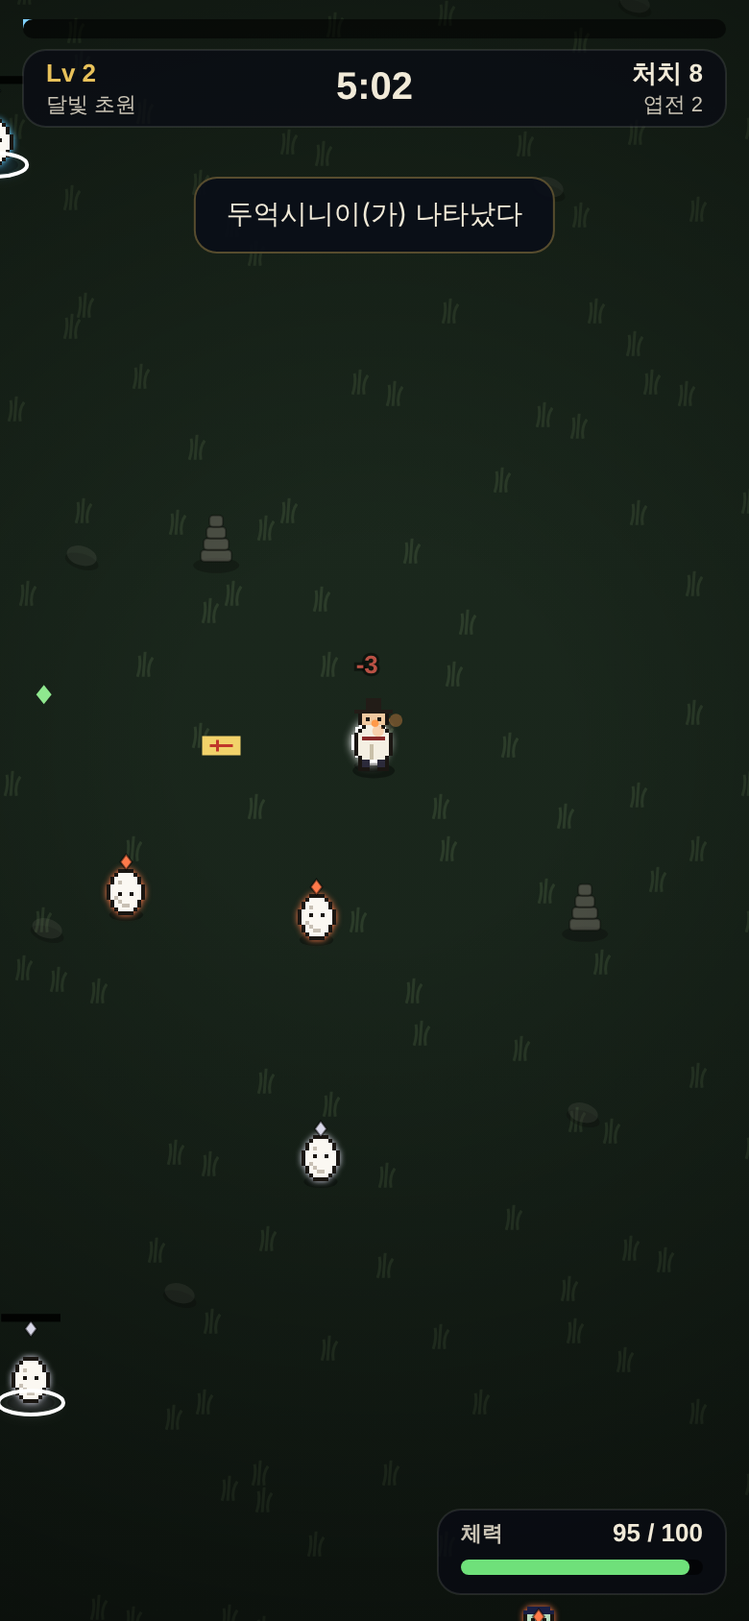
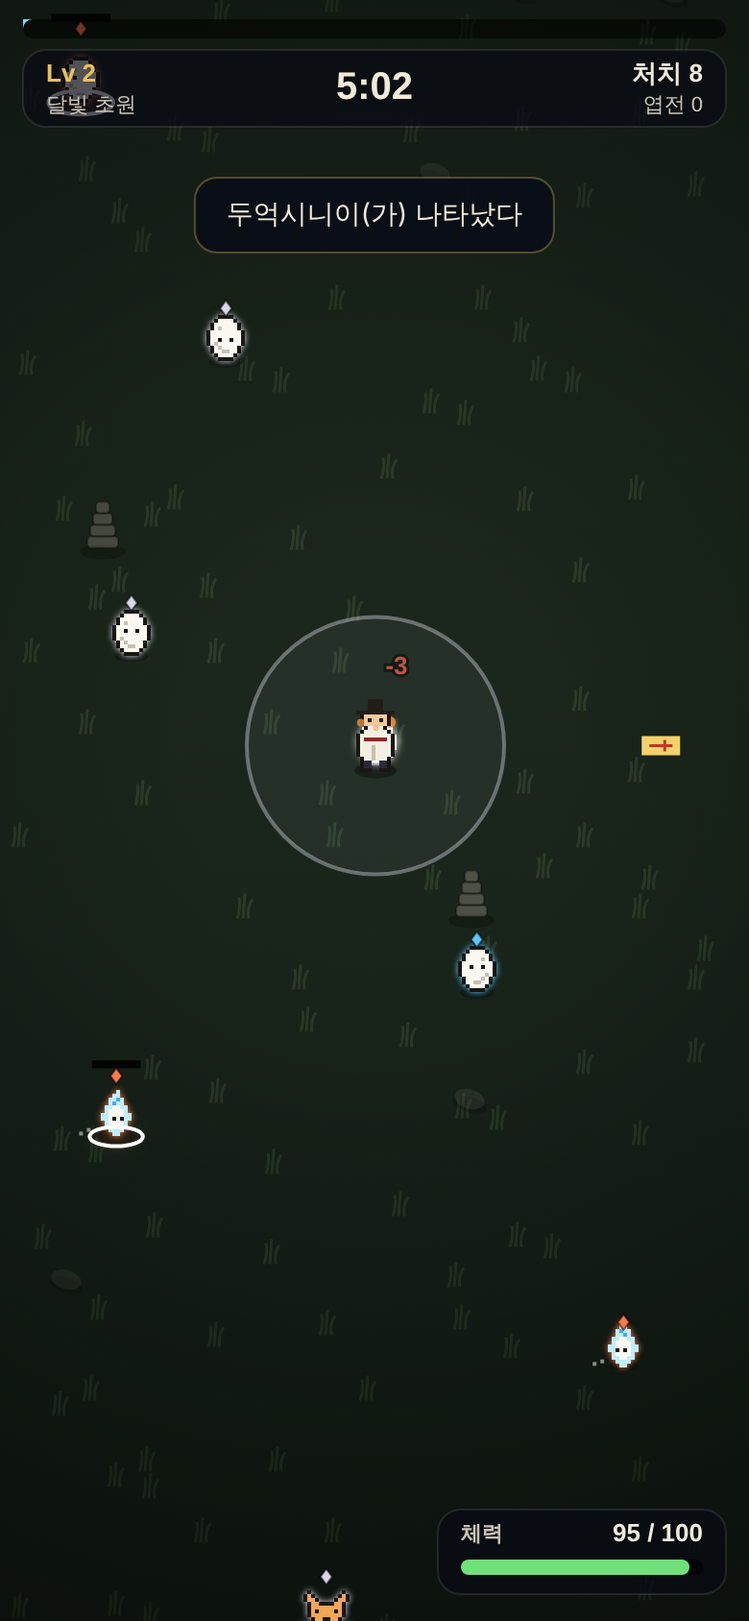
밤의 퇴마사 M3②: 무기 진화 — 격자 문법 2단 30·3단 7, 런 내 Lv5×2 → 진화 카드, 도감 49칸
- EVOS 생성(같은 속성/같은 타입 쌍, 삼위일체/사원소), 부모 소모·재등장 금지, 피해 ×1.5/×2.2
- firePart(w, owner): 진화 무기는 부품 공격 전부 발사, 상성은 유리한 쪽만
- 합성 아이콘(부품 + 단 테두리), 레벨업 첫 카드 진화, 상자에도 진화 무기 강화
- m3b-test 10/10

Claude-Session: https://claude.ai/code/session_01RmJvEQYZMU41pMZMsu4AKq

diff --git a/games/night-exorcist/index.html b/games/night-exorcist/index.html
@@ -136,7 +136,7 @@ const EL_COL = { fire:'#ff7a4a', water:'#5fc8ff', wood:'#7fe06a', metal:'#d8d8e8
 const power = r => 1 + C.META_G * (1 - Math.pow(C.META_D, r));
 
 // ───────── 메타 세이브 ─────────
-const META0 = { v:2, runs:0, coins:0, shards:0, train:{ atk:0, hp:0, regen:0, spd:0, pick:0 }, owned:{ talisman:0 }, deck:['talisman'], stage:1, bestStage:0, codex:[], best:{ time:0, kills:0 }, chalBest:0, lastSeen:0 };
+const META0 = { v:2, runs:0, coins:0, shards:0, train:{ atk:0, hp:0, regen:0, spd:0, pick:0 }, owned:{ talisman:0 }, deck:['talisman'], stage:1, bestStage:0, codex:[], evo:[], best:{ time:0, kills:0 }, chalBest:0, lastSeen:0 };
 function migrate(m) { if (!m) return JSON.parse(JSON.stringify(META0)); const base = JSON.parse(JSON.stringify(META0)); if (m.v === 1) { const w = m.weapons || []; m.owned = {}; if (w[0]) m.owned.talisman = 0; if (w[1]) m.owned.sword = 0; if (w[2]) m.owned.bell = 0; m.deck = Object.keys(m.owned); delete m.weapons; delete m.chars; m.v = 2; } const out = { ...base, ...m }; out.train = { ...base.train, ...(m.train || {}) }; if (!out.owned.talisman && out.owned.talisman !== 0) out.owned.talisman = 0; if (!out.deck.length) out.deck = ['talisman']; return out; }
 let META = migrate(JSON.parse(store.get(SAVE_KEY) || 'null'));
 function saveMeta() { META.lastSeen = Date.now(); store.set(SAVE_KEY, JSON.stringify(META)); cloudSave(); }
@@ -232,7 +232,41 @@ const WEAPONS = [
   { id:'bell',     el:'metal', type:'aura',  name:'방울',     desc:'주변 요괴를 계속 흔들어 느리게 한다',         cd:.5, dmg:4, range:70, slow:.2, max:5, up:'피해 +25% · 반경 +12%' },
 ];
 const WBY = Object.fromEntries(WEAPONS.map(w => [w.id, w]));
-const affinity = (w, o) => { const el = o.el || (o.d && o.d.el) || 'none', armor = o.armor || (o.d && o.d.armor) || 'none'; return (el === 'none' || w.el === el ? 1 : BEATS[w.el] === el ? 1.5 : BEATS[el] === w.el ? .6 : 1) * (TYPE_VS[w.type][armor] || 1); };
+const elMul = (we, el) => el === 'none' || we === el ? 1 : BEATS[we] === el ? 1.5 : BEATS[el] === we ? .6 : 1;
+const affinity = (w, o) => { const el = o.el || (o.d && o.d.el) || 'none', armor = o.armor || (o.d && o.d.armor) || 'none';
+  if (w.els) return Math.max(1, ...w.els.map(we => elMul(we, el))) * Math.max(1, ...w.types.map(t => TYPE_VS[t][armor] || 1));   // 진화: 불리 없음
+  return elMul(w.el, el) * (TYPE_VS[w.type][armor] || 1); };
+// ── 진화: 2단 = 같은 속성·다른 타입 쌍(12) + 같은 타입·다른 속성 쌍(18) · 3단 = 속성 삼위일체(4) + 타입 사원소(3). 런 안에서 부모 Lv5 → 자식 Lv1, 부모 소모
+// 효과: 부모 공격 전부 발사, 피해 2단 ×1.5 / 3단 ×2.2, 상성은 부모 속성·타입 중 유리한 쪽(불리 없음)
+const EVO_NAME = {
+  'fire:throw+melee':'화염 부채', 'fire:throw+aura':'불꽃 비', 'fire:melee+aura':'업화 고리',
+  'water:throw+melee':'해일 채찍', 'water:throw+aura':'빗물 구슬', 'water:melee+aura':'안개 소용돌이',
+  'wood:throw+melee':'대나무 숲검', 'wood:throw+aura':'염주 창', 'wood:melee+aura':'목어 검무',
+  'metal:throw+melee':'엽전 낫', 'metal:throw+aura':'방울 표창', 'metal:melee+aura':'풍경 낫',
+  'throw:fire+water':'김 서린 부적', 'throw:fire+wood':'불타는 죽창', 'throw:fire+metal':'불 엽전', 'throw:water+wood':'이슬 죽창', 'throw:water+metal':'물결 표창', 'throw:wood+metal':'엽전 죽창',
+  'melee:fire+water':'증기 채찍', 'melee:fire+wood':'화목검', 'melee:fire+metal':'달군 낫', 'melee:water+wood':'물먹은 목검', 'melee:water+metal':'물결 낫', 'melee:wood+metal':'목낫',
+  'aura:fire+water':'온천 안개', 'aura:fire+wood':'향로 염주', 'aura:fire+metal':'화로 방울', 'aura:water+wood':'안개 염주', 'aura:water+metal':'물방울 종', 'aura:wood+metal':'염주 방울',
+  'fire:all':'삼매진화', 'water:all':'용궁 해일', 'wood:all':'천년 신목', 'metal:all':'만금 종', 'throw:all':'사원소 표창', 'melee:all':'사원소 검', 'aura:all':'사원소 결계' };
+const ELS = ['fire', 'water', 'wood', 'metal'], TYPES = ['throw', 'melee', 'aura'];
+const baseOf = (el, type) => WEAPONS.find(w => w.el === el && w.type === type);
+const EVOS = []; // { id, name, tier, parents:[ids], parts:[base ids], els, types, max:5 }
+for (const el of ELS) for (let i = 0; i < 3; i++) for (let j = i + 1; j < 3; j++) { const a = baseOf(el, TYPES[i]), b = baseOf(el, TYPES[j]); EVOS.push({ id:`e:${el}:${TYPES[i]}+${TYPES[j]}`, name:EVO_NAME[`${el}:${TYPES[i]}+${TYPES[j]}`], tier:2, parents:[a.id, b.id], parts:[a.id, b.id], els:[el], types:[TYPES[i], TYPES[j]], max:5, up:'피해 +25%' }); }
+for (const type of TYPES) for (let i = 0; i < 4; i++) for (let j = i + 1; j < 4; j++) { const a = baseOf(ELS[i], type), b = baseOf(ELS[j], type); EVOS.push({ id:`e:${type}:${ELS[i]}+${ELS[j]}`, name:EVO_NAME[`${type}:${ELS[i]}+${ELS[j]}`], tier:2, parents:[a.id, b.id], parts:[a.id, b.id], els:[ELS[i], ELS[j]], types:[type], max:5, up:'피해 +25%' }); }
+for (const el of ELS) EVOS.push({ id:`e:${el}:all`, name:EVO_NAME[`${el}:all`], tier:3, parents:null, parts:TYPES.map(t => baseOf(el, t).id), els:[el], types:TYPES.slice(), max:5, up:'피해 +25%' });   // 2단(같은 속성) + 남은 타입 Lv5
+for (const type of TYPES) EVOS.push({ id:`e:${type}:all`, name:EVO_NAME[`${type}:all`], tier:3, parents:null, parts:ELS.map(e => baseOf(e, type).id), els:ELS.slice(), types:[type], max:5, up:'피해 +25%' });   // 같은 타입 2단 둘(속성 겹침 없음)
+const EBY = Object.fromEntries(EVOS.map(e => [e.id, e]));
+const weaponOf = id => WBY[id] || EBY[id];
+const TIER_MUL = { 1:1, 2:1.5, 3:2.2 };
+for (const e of EVOS) e.desc = (e.tier === 3 ? '3단 · ' : '2단 · ') + e.parts.map(p => WBY[p].name).join('+') + ' 을(를) 모두 쏜다';
+// 지금 보유(P.w)로 가능한 진화 목록
+function evoOptions() {
+  const out = [], have = id => (P.w[id] || 0) >= weaponOf(id).max;
+  for (const e of EVOS) { if (P.w[e.id]) continue;
+    if (e.tier === 2) { if (have(e.parents[0]) && have(e.parents[1])) out.push({ e, consume:e.parents }); }
+    else if (e.types.length === 3) { const t2 = EVOS.filter(x => x.tier === 2 && x.els.length === 1 && x.els[0] === e.els[0]).find(x => have(x.id)); if (!t2) continue; const rest = e.parts.find(p => !t2.parts.includes(p)); if (have(rest)) out.push({ e, consume:[t2.id, rest] }); }
+    else { const t2s = EVOS.filter(x => x.tier === 2 && x.types.length === 1 && x.types[0] === e.types[0] && have(x.id)); for (let i = 0; i < t2s.length; i++) for (let j = i + 1; j < t2s.length; j++) if (!t2s[i].els.some(el => t2s[j].els.includes(el))) { out.push({ e, consume:[t2s[i].id, t2s[j].id] }); i = j = 99; } } }
+  return out;
+}
 const CHAL_DECK = ['talisman', 'sword', 'bell', 'spear', 'orb', 'sickle'];   // 주간 챌린지 고정 덱
 const TRAIN = [ { id:'atk', name:'공격', desc:'피해 +12%/단' }, { id:'hp', name:'체력', desc:'최대 체력 +15%/단' }, { id:'regen', name:'회복', desc:'자연 회복 +25%/단' }, { id:'spd', name:'이속', desc:'이동 속도 +4%/단' }, { id:'pick', name:'획득', desc:'보석 범위 +10%/단' } ];
 const trainCost = lv => Math.round(40 * Math.pow(1.6, lv));   // 0→1 40, 1→2 64, … 4→5 262
@@ -246,7 +280,7 @@ const PASSIVES = [
 
 // ───────── 상태·풀 ─────────
 const S = { mode:'menu', t:0, stage:0, lvl:1, xp:0, need:C.LVL_XP0, kills:0, coins:0, hp:100, maxhp:100, pw:1, spawnAcc:0, bossDone:[false,false], cleared:false, dead:false, hitT:0, slowT:0, burnT:0, eliteIdx:0, shardsRun:0, deck:['talisman'], freeze:0, shake:0, flash:0, chal:null };
-const P = { x:0, y:0, r:12, dx:0, dy:1, moving:false, walk:0, spd:C.SPEED, pick:C.PICK_R, w:{}, p:{} };   // w: 무기 레벨, p: 패시브 레벨
+const P = { x:0, y:0, r:12, dx:0, dy:1, moving:false, walk:0, spd:C.SPEED, pick:C.PICK_R, w:{}, p:{}, used:new Set() };   // w: 무기 레벨, p: 패시브 레벨
 const E = [], E_FREE = [];      // 적 풀
 const B = [], B_FREE = [];      // 투사체(부적)
 const G = [], G_FREE = [];      // 보석
@@ -284,8 +318,8 @@ const stageMul = () => STAGES[S.stage].mul;
 const enemyHp = t => C.HP0 * Math.pow(C.HP_G, t) * stageMul();
 const spawnRate = t => C.SPAWN0 + C.SPAWN_K * t;
 const cdMul = () => Math.pow(.92, P.p.cd || 0);
-const dmgOf = w => w.dmg * Math.pow(1.25, (P.w[w.id] || 1) - 1) * mAtk() * (1 + .05 * mastery(w.id));
-const rangeOf = w => w.range * Math.pow(1.12, (P.w[w.id] || 1) - 1);
+const dmgOf = (w, owner = w) => w.dmg * Math.pow(1.25, (P.w[owner.id] || 1) - 1) * mAtk() * (1 + .05 * (owner.parts ? owner.parts.reduce((a, p) => a + mastery(p), 0) / owner.parts.length : mastery(w.id))) * (TIER_MUL[owner.tier] || 1);
+const rangeOf = (w, owner = w) => w.range * Math.pow(1.12, (P.w[owner.id] || 1) - 1);
 
 // ───────── 적 ─────────
 function spawn(type, boss, elite) {
@@ -336,13 +370,13 @@ function bossPattern(o) {
 }
 function openChest(c) {
   const g = c.grade; let got = []; S.mode = 'chest';
-  for (let k = 0; k < g.n; k++) { const cands = S.deck.map(id => WBY[id]).filter(w => w && P.w[w.id] && P.w[w.id] < w.max); if (!cands.length) { S.coins += 10; got.push({ coin:10 }); continue; } const w = cands[Math.floor(rnd() * cands.length)]; const from = P.w[w.id]; P.w[w.id]++; const hit = got.find(x => x.w === w); if (hit) hit.to = P.w[w.id]; else got.push({ w, from, to:P.w[w.id] }); }
+  for (let k = 0; k < g.n; k++) { const cands = Object.keys(P.w).map(id => weaponOf(id)).filter(w => w && P.w[w.id] && P.w[w.id] < w.max); if (!cands.length) { S.coins += 10; got.push({ coin:10 }); continue; } const w = cands[Math.floor(rnd() * cands.length)]; const from = P.w[w.id]; P.w[w.id]++; const hit = got.find(x => x.w === w); if (hit) hit.to = P.w[w.id]; else got.push({ w, from, to:P.w[w.id] }); }
   SND.levelup(); S.flash = 1;
   document.getElementById('chTitle').innerHTML = `<span style="color:${g.col}">${g.g} 상자</span><small style="display:block;font-size:12px;color:#c9c3b4;font-weight:500;margin-top:4px">정예 ${c.from || '요괴'} 퇴치 보상 · 무기 강화 ${g.n}회</small>`;
   const list = document.getElementById('chList'); list.innerHTML = '';
   for (const x of got) { const row = document.createElement('div'); row.className = 'card'; row.style.cursor = 'default';
     if (x.coin) { row.innerHTML = `<canvas class="ic" width="88" height="88"></canvas><span><b>엽전 +${x.coin}</b><small>강화할 무기가 없어 엽전으로</small></span>`; drawIcon(row.querySelector('canvas'), { d:WBY.coin }); }
-    else { const maxed = x.to >= x.w.max; row.innerHTML = `<canvas class="ic" width="88" height="88"></canvas><span><b>${x.w.name} <small class="el-${x.w.el}">${EL_NAME[x.w.el]}·${TYPE_NAME[x.w.type]}</small></b><small>${x.w.up}${maxed ? ' · <b style="color:#e8c15a">최대</b>' : ''}</small></span><span class="lvl">Lv ${x.from} → ${x.to}</span>`; drawIcon(row.querySelector('canvas'), { d:x.w }); }
+    else { const maxed = x.to >= x.w.max; row.innerHTML = `<canvas class="ic" width="88" height="88"></canvas><span><b>${x.w.name} <small class="el-${x.w.el || ''}">${x.w.el ? EL_NAME[x.w.el] + '·' + TYPE_NAME[x.w.type] : x.w.tier + '단'}</small></b><small>${x.w.up}${maxed ? ' · <b style="color:#e8c15a">최대</b>' : ''}</small></span><span class="lvl">Lv ${x.from} → ${x.to}</span>`; drawIcon(row.querySelector('canvas'), { d:x.w }); }
     list.appendChild(row); }
   show('chest', true);
 }
@@ -382,34 +416,36 @@ function dropGem(x, y, v) { acquire(G, G_FREE, g => { g.x = x + (Math.random()-.
 // ───────── 무기 ─────────
 const WCD = {};
 function nearest(maxR) { let best = null, bd = maxR * maxR; for (const o of E) { const d = (o.x - P.x) ** 2 + (o.y - P.y) ** 2; if (d < bd) { bd = d; best = o; } } return best; }
-function hitWith(o, w, dmg, kx, ky) { // 상성·속성 효과 적용 후 피해
-  const af = affinity(w, o), d = dmg * af;
+function hitWith(o, w, dmg, kx, ky, owner = w) { // 상성(owner)·속성 효과(부품 w) 적용 후 피해
+  const af = affinity(owner, o), d = dmg * af;
   if (af > 1.2 && (o.boss || o.elite || Math.random() < .25)) float(o.x, o.y - o.r - 8, '유리 ' + Math.round(d), '#ffd86a', 12); else if (af < .8 && (o.boss || o.elite || Math.random() < .25)) float(o.x, o.y - o.r - 8, '불리 ' + Math.round(d), '#9a9aa8', 11);
   if (w.el === 'fire') o.burn = Math.max(o.burn || 0, 2); else if (w.el === 'water') o.slow = Math.max(o.slow, .8); else if (w.el === 'metal') { kx *= 1.6; ky *= 1.6; }
   return hurtEnemy(o, d, kx, ky);
 }
-function updateWeapons(dt) {
-  for (const id of S.deck) { const w = WBY[id]; if (!w) continue;
-    const lv = P.w[w.id]; if (!lv) continue;
-    WCD[w.id] = (WCD[w.id] || 0) - dt; if (WCD[w.id] > 0) continue;
-    if (w.type === 'throw') {
-      const tg = nearest(260); if (!tg) { WCD[w.id] = .15; continue; } WCD[w.id] = w.cd * cdMul();
-      const a = Math.atan2(tg.y - P.y, tg.x - P.x), n = lv >= 4 ? 2 : 1, pierce = w.pierce + lv - 1;
-      for (let k = 0; k < n; k++) { const aa = a + (k - (n - 1) / 2) * .25; acquire(B, B_FREE, b => { b.w = w; b.x = P.x; b.y = P.y; b.vx = Math.cos(aa) * w.spd; b.vy = Math.sin(aa) * w.spd; b.a = aa; b.life = 1.4; b.pierce = pierce; b.dmg = dmgOf(w); b.hitSet = new Set(); b.bounce = w.id === 'coin' ? 1 : 0; }); }
-      SND.talisman();
-    } else if (w.type === 'melee') {
-      WCD[w.id] = w.cd * cdMul(); const a = Math.atan2(P.dy, P.dx), R = rangeOf(w), arc = w.arc + (lv - 1) * .12, dmg = dmgOf(w);
-      SLASH.push({ x:P.x, y:P.y, a, R, arc, t:.22, el:w.el }); SND.sword(); S.shake = Math.max(S.shake, 1.5);
-      for (let i = E.length - 1; i >= 0; i--) { const o = E[i], dx = o.x - P.x, dy = o.y - P.y, d = Math.hypot(dx, dy) || .01; if (d > R + o.r) continue; let da = Math.atan2(dy, dx) - a; da = Math.atan2(Math.sin(da), Math.cos(da)); if (Math.abs(da) <= arc / 2) { hitWith(o, w, dmg, dx / d * 120, dy / d * 120); burst(o.x, o.y, 3, EL_COL[w.el], 90); } }
-    } else {
-      WCD[w.id] = w.cd * cdMul(); const R = rangeOf(w), dmg = dmgOf(w); let any = false;
-      for (let i = E.length - 1; i >= 0; i--) { const o = E[i], d = Math.hypot(o.x - P.x, o.y - P.y); if (d <= R + o.r) { any = true; if (w.slow) o.slow = Math.max(o.slow, .6); hitWith(o, w, dmg, 0, 0); } }
-      if (any) SND.bell();
-    }
+function firePart(w, owner, lv, dt) { // 기본 무기 w 의 공격 1회 (owner = w 또는 진화 무기)
+  const key = owner.id === w.id ? w.id : owner.id + ':' + w.id;
+  WCD[key] = (WCD[key] || 0) - dt; if (WCD[key] > 0) return;
+  if (w.type === 'throw') {
+    const tg = nearest(260); if (!tg) { WCD[key] = .15; return; } WCD[key] = w.cd * cdMul();
+    const a = Math.atan2(tg.y - P.y, tg.x - P.x), n = lv >= 4 ? 2 : 1, pierce = w.pierce + lv - 1;
+    for (let k = 0; k < n; k++) { const aa = a + (k - (n - 1) / 2) * .25; acquire(B, B_FREE, b => { b.w = w; b.owner = owner; b.x = P.x; b.y = P.y; b.vx = Math.cos(aa) * w.spd; b.vy = Math.sin(aa) * w.spd; b.a = aa; b.life = 1.4; b.pierce = pierce; b.dmg = dmgOf(w, owner); b.hitSet = new Set(); b.bounce = w.id === 'coin' ? 1 : 0; }); }
+    SND.talisman();
+  } else if (w.type === 'melee') {
+    WCD[key] = w.cd * cdMul(); const a = Math.atan2(P.dy, P.dx), R = rangeOf(w, owner), arc = w.arc + (lv - 1) * .12, dmg = dmgOf(w, owner);
+    SLASH.push({ x:P.x, y:P.y, a, R, arc, t:.22, el:w.el }); SND.sword(); S.shake = Math.max(S.shake, 1.5);
+    for (let i = E.length - 1; i >= 0; i--) { const o = E[i], dx = o.x - P.x, dy = o.y - P.y, d = Math.hypot(dx, dy) || .01; if (d > R + o.r) continue; let da = Math.atan2(dy, dx) - a; da = Math.atan2(Math.sin(da), Math.cos(da)); if (Math.abs(da) <= arc / 2) { hitWith(o, w, dmg, dx / d * 120, dy / d * 120, owner); burst(o.x, o.y, 3, EL_COL[w.el], 90); } }
+  } else {
+    WCD[key] = w.cd * cdMul(); const R = rangeOf(w, owner), dmg = dmgOf(w, owner); let any = false;
+    for (let i = E.length - 1; i >= 0; i--) { const o = E[i], d = Math.hypot(o.x - P.x, o.y - P.y); if (d <= R + o.r) { any = true; if (w.slow) o.slow = Math.max(o.slow, .6); hitWith(o, w, dmg, 0, 0, owner); } }
+    if (any) SND.bell();
   }
+}
+function updateWeapons(dt) {
+  for (const id in P.w) { const lv = P.w[id]; if (!lv) continue; const w = weaponOf(id); if (!w) continue;
+    if (w.parts) for (const pid of w.parts) firePart(WBY[pid], w, lv, dt); else firePart(w, w, lv, dt); }
   // 투사체
   for (let i = B.length - 1; i >= 0; i--) { const b = B[i]; b.x += b.vx * dt; b.y += b.vy * dt; b.life -= dt; if (b.life <= 0) { release(B, B_FREE, i); continue; }
-    for (let j = E.length - 1; j >= 0; j--) { const o = E[j]; if (b.hitSet.has(o)) continue; if ((o.x - b.x) ** 2 + (o.y - b.y) ** 2 < (o.r + 6) ** 2) { b.hitSet.add(o); hitWith(o, b.w, b.dmg, b.vx * .3, b.vy * .3); b.pierce--;
+    for (let j = E.length - 1; j >= 0; j--) { const o = E[j]; if (b.hitSet.has(o)) continue; if ((o.x - b.x) ** 2 + (o.y - b.y) ** 2 < (o.r + 6) ** 2) { b.hitSet.add(o); hitWith(o, b.w, b.dmg, b.vx * .3, b.vy * .3, b.owner || b.w); b.pierce--;
       if (b.pierce < 0) { if (b.bounce > 0) { b.bounce--; const t2 = nearest(220); if (t2 && t2 !== o) { const a2 = Math.atan2(t2.y - b.y, t2.x - b.x); b.vx = Math.cos(a2) * b.w.spd; b.vy = Math.sin(a2) * b.w.spd; b.a = a2; b.pierce = 0; continue; } } release(B, B_FREE, i); break; } } } }
   for (let i = SLASH.length - 1; i >= 0; i--) { SLASH[i].t -= dt; if (SLASH[i].t <= 0) SLASH.splice(i, 1); }
   // 적 화상 DoT
@@ -427,22 +463,29 @@ function updateGems(dt) {
 function choices() {
   const pool = [];
   const nW = Object.keys(P.w).length;
-  for (const id of S.deck) { const w = WBY[id]; if (!w) continue; const lv = P.w[w.id] || 0; if (lv >= w.max) continue; if (!lv && nW >= 4) continue; pool.push({ kind:'w', d:w, lv }); }
+  for (const id of S.deck) { const w = WBY[id]; if (!w) continue; const lv = P.w[w.id] || 0; if (lv >= w.max) continue; if (!lv && (nW >= 4 || P.used.has(id))) continue; pool.push({ kind:'w', d:w, lv }); }
+  for (const id in P.w) { const e = EBY[id]; if (!e) continue; const lv = P.w[id]; if (lv < e.max) pool.push({ kind:'w', d:e, lv }); }
+  const evos = evoOptions();
   const nP = Object.keys(P.p).length;
   for (const p of PASSIVES) { const lv = P.p[p.id] || 0; if (lv >= p.max) continue; if (!lv && nP >= 3) continue; pool.push({ kind:'p', d:p, lv }); }
   for (let i = pool.length - 1; i > 0; i--) { const j = Math.floor(rnd() * (i + 1)); [pool[i], pool[j]] = [pool[j], pool[i]]; }
-  return pool.slice(0, 3);
+  const out = pool.slice(0, evos.length ? 2 : 3);
+  if (evos.length) { const ev = evos[Math.floor(rnd() * evos.length)]; out.unshift({ kind:'e', d:ev.e, consume:ev.consume, lv:0 }); }
+  return out;
 }
 let rndState = 1; function rnd() { if (!S.chal) return Math.random(); rndState = ((rndState * 16838 % 2147483648) * 65536 + rndState * 20077 + 12345) % 2147483648; return rndState / 2147483648; }
 function levelUp() {
   S.mode = 'lv'; S.flash = 1; SND.levelup(); const ch = choices(); const box = document.getElementById('lvCards'); box.innerHTML = '';
   if (!ch.length) { S.mode = 'play'; S.coins += 5; float(P.x, P.y - 30, '엽전 +5', '#e8c15a'); return; }
   for (const c of ch) { const b = document.createElement('button'); b.className = 'card'; b.innerHTML = `<canvas class="ic" width="88" height="88"></canvas><span><b>${c.d.name}</b><small>${c.lv ? c.d.up || c.d.desc : c.d.desc}</small></span><span class="lvl">${c.lv ? `Lv ${c.lv}→${c.lv + 1}` : '새로 익힘'}</span>`;
-    if (c.kind === 'w') b.querySelector('b').innerHTML += ` <small class="el-${c.d.el}">${EL_NAME[c.d.el]}·${TYPE_NAME[c.d.type]}</small>`;
+    if (c.kind === 'w' && c.d.el) b.querySelector('b').innerHTML += ` <small class="el-${c.d.el}">${EL_NAME[c.d.el]}·${TYPE_NAME[c.d.type]}</small>`;
+    if (c.kind === 'w' && c.d.els) b.querySelector('b').innerHTML += ` <small>${c.d.els.map(e => `<span class="el-${e}">${EL_NAME[e]}</span>`).join('')}·${c.d.types.map(t => TYPE_NAME[t]).join('')}</small>`;
+    if (c.kind === 'e') { b.style.borderColor = '#e8c15a'; b.style.background = 'rgba(232,193,90,.14)'; b.querySelector('b').innerHTML = `✦ 진화: ${c.d.name}`; b.querySelector('.lvl').textContent = `${c.d.tier}단`; b.querySelector('small').textContent = `${c.consume.map(id => weaponOf(id).name).join(' + ')} → ${c.d.name} · ${c.d.desc}`; }
     b.addEventListener('click', () => pick(c)); box.appendChild(b); drawIcon(b.querySelector('canvas'), c); }
   show('lv', true);
 }
-function pick(c) { if (c.kind === 'w') P.w[c.d.id] = (P.w[c.d.id] || 0) + 1; else { P.p[c.d.id] = (P.p[c.d.id] || 0) + 1; applyPassives(); if (c.d.id === 'hp') S.hp = Math.min(S.maxhp, S.hp + S.maxhp * .3); }
+function pick(c) { if (c.kind === 'e') { for (const id of c.consume) { delete P.w[id]; P.used.add(id); } P.w[c.d.id] = 1; if (!META.evo.includes(c.d.id)) { META.evo.push(c.d.id); toast(`도감에 ${c.d.name} 기록`); } S.flash = 1; S.shake = 6; SND.dawn(); burst(P.x, P.y, 40, '#ffd86a', 160); saveMeta(); }
+  else if (c.kind === 'w') P.w[c.d.id] = (P.w[c.d.id] || 0) + 1; else { P.p[c.d.id] = (P.p[c.d.id] || 0) + 1; applyPassives(); if (c.d.id === 'hp') S.hp = Math.min(S.maxhp, S.hp + S.maxhp * .3); }
   show('lv', false); S.mode = 'play'; }
 function applyPassives() { P.spd = C.SPEED * mSpd() * Math.pow(1.1, P.p.spd || 0); const mh = C.HP_PLAYER * mHp() * Math.pow(1.15, P.p.hp || 0); S.hp = Math.min(mh, S.hp * mh / S.maxhp); S.maxhp = mh; }
 
@@ -592,7 +635,10 @@ function drawEnemy(o, x, y, t) {
 }
 function drawTree(x, y, sc) { ctx.save(); ctx.translate(x, y); ctx.scale(sc, sc); ctx.fillStyle = 'rgba(0,0,0,.35)'; ctx.beginPath(); ctx.ellipse(0, 4, 14, 5, 0, 0, 6.283); ctx.fill(); ctx.fillStyle = '#3a2a1c'; ctx.fillRect(-3, -16, 6, 20); ctx.strokeStyle = 'rgba(0,0,0,.4)'; ctx.lineWidth = 1; ctx.strokeRect(-3, -16, 6, 20);
   for (const [dx, dy, r, c] of [[-8,-20,11,'#1c3a22'],[8,-22,11,'#1c3a22'],[0,-30,12,'#254a2a'],[0,-20,10,'#2f5a33']]) { ctx.fillStyle = c; ctx.beginPath(); ctx.arc(dx, dy, r, 0, 6.283); ctx.fill(); ctx.strokeStyle = 'rgba(0,0,0,.35)'; ctx.stroke(); } ctx.fillStyle = 'rgba(255,255,255,.08)'; ctx.beginPath(); ctx.arc(-3, -32, 5, 0, 6.283); ctx.fill(); ctx.restore(); }
-function drawIcon(c, ch, sc = 2) { const x = c.getContext('2d'); x.clearRect(0, 0, c.width, c.height); x.scale(sc, sc); x.translate(c.width / sc / 2, c.height / sc / 2); const d = ch.d; const ec = EL_COL[d.el] || '#e8c15a';
+function drawIcon(c, ch, sc = 2) { const d = ch.d;
+  if (d.parts) { const x = c.getContext('2d'); x.clearRect(0, 0, c.width, c.height); x.save(); x.translate(c.width / 2, c.height / 2); x.strokeStyle = d.tier === 3 ? '#ffd86a' : '#c9a66b'; x.lineWidth = c.width * .05; x.beginPath(); x.arc(0, 0, c.width * .44, 0, 6.283); x.stroke(); x.restore();
+    const n = d.parts.length, k = n <= 2 ? .85 : .65; d.parts.forEach((pid, i) => { const a = (n <= 2 ? 2.356 : -1.571) + i * 6.283 / n, cx = c.width / 2 + Math.cos(a) * c.width * (n <= 2 ? .17 : .24), cy = c.height / 2 + Math.sin(a) * c.height * (n <= 2 ? .17 : .24); const tmp = document.createElement('canvas'); tmp.width = c.width; tmp.height = c.height; drawIcon(tmp, { d:WBY[pid] }, sc); x.drawImage(tmp, cx - c.width * k / 2, cy - c.height * k / 2, c.width * k, c.height * k); }); return; }
+  const x = c.getContext('2d'); x.clearRect(0, 0, c.width, c.height); x.scale(sc, sc); x.translate(c.width / sc / 2, c.height / sc / 2); const ec = EL_COL[d.el] || '#e8c15a';
   if (d.type === 'throw' && d.id !== 'talisman') { x.fillStyle = ec; if (d.id === 'orb') { x.beginPath(); x.arc(0, 0, 12, 0, 6.283); x.fill(); x.fillStyle = '#fff'; x.beginPath(); x.arc(-4, -4, 4, 0, 6.283); x.fill(); } else if (d.id === 'spear') { x.rotate(-.8); x.fillRect(-2, -18, 4, 34); x.beginPath(); x.moveTo(-5, -16); x.lineTo(0, -26); x.lineTo(5, -16); x.fill(); } else { x.beginPath(); x.arc(0, 0, 12, 0, 6.283); x.fill(); x.fillStyle = '#1a1408'; x.fillRect(-4, -4, 8, 8); x.strokeStyle = '#9a7a22'; x.lineWidth = 2; x.beginPath(); x.arc(0, 0, 12, 0, 6.283); x.stroke(); } return; }
   if (d.type === 'melee' && d.id !== 'sword') { x.rotate(-.7); if (d.id === 'torch') { x.fillStyle = '#6a4a2a'; x.fillRect(-3, -4, 6, 22); x.fillStyle = '#ff7a4a'; x.beginPath(); x.moveTo(-8, -4); x.quadraticCurveTo(0, -26, 8, -4); x.fill(); x.fillStyle = '#ffd86a'; x.beginPath(); x.moveTo(-4, -4); x.quadraticCurveTo(0, -16, 4, -4); x.fill(); } else if (d.id === 'whip') { x.strokeStyle = ec; x.lineWidth = 4; x.beginPath(); x.moveTo(-12, 14); x.quadraticCurveTo(-6, -10, 6, -2); x.quadraticCurveTo(14, 4, 12, -14); x.stroke(); } else { x.strokeStyle = ec; x.lineWidth = 5; x.beginPath(); x.arc(2, -2, 12, 3.6, 6.4); x.stroke(); x.fillStyle = '#6a4a2a'; x.fillRect(-2, 6, 4, 14); } return; }
   if (d.type === 'aura' && d.id !== 'bell') { if (d.id === 'brazier') { x.fillStyle = '#5a4a3a'; x.beginPath(); x.moveTo(-12, 2); x.lineTo(12, 2); x.lineTo(8, 14); x.lineTo(-8, 14); x.fill(); x.fillStyle = '#ff7a4a'; x.beginPath(); x.moveTo(-9, 2); x.quadraticCurveTo(-6, -14, 0, -18); x.quadraticCurveTo(6, -14, 9, 2); x.fill(); x.fillStyle = '#ffd86a'; x.beginPath(); x.moveTo(-4, 2); x.quadraticCurveTo(0, -8, 4, 2); x.fill(); } else if (d.id === 'mist') { x.fillStyle = 'rgba(95,200,255,.5)'; for (const [cx, cy, r] of [[-8, 2, 8], [4, -4, 10], [8, 6, 7]]) { x.beginPath(); x.arc(cx, cy, r, 0, 6.283); x.fill(); } } else { x.strokeStyle = '#8a6a3a'; x.lineWidth = 2; x.beginPath(); x.arc(0, 0, 13, 0, 6.283); x.stroke(); for (let k = 0; k < 8; k++) { x.fillStyle = '#c9a66b'; x.beginPath(); x.arc(Math.cos(k * .785) * 13, Math.sin(k * .785) * 13, 3.5, 0, 6.283); x.fill(); } } return; }
@@ -622,8 +668,8 @@ function draw() {
   // 보석
   for (const g of G) { const x = sx(g.x), y = sy(g.y); if (x < -20 || x > W + 20 || y < -20 || y > H + 20) continue; ctx.fillStyle = g.v >= 4 ? '#ff8aa0' : g.v >= 2 ? '#8fd1ff' : '#8fe88f'; ctx.beginPath(); ctx.moveTo(x, y - 5); ctx.lineTo(x + 4, y); ctx.lineTo(x, y + 5); ctx.lineTo(x - 4, y); ctx.closePath(); ctx.fill(); }
   // 방울 오라
-  for (const id of S.deck) { const w = WBY[id]; if (!w || w.type !== 'aura' || !P.w[id]) continue; const R = rangeOf(w), p = (WCD[id] || 0) / (w.cd * cdMul()), ec = EL_COL[w.el]; ctx.strokeStyle = ec; ctx.globalAlpha = .25 + (1 - p) * .35; ctx.lineWidth = 2; ctx.beginPath(); ctx.arc(sx(P.x), sy(P.y), R * (1 - p * .08), 0, 6.283); ctx.stroke(); ctx.globalAlpha = .06; ctx.fillStyle = ec; ctx.fill(); ctx.globalAlpha = 1;
-    if (id === 'beads') for (let k = 0; k < 6; k++) { const a = t * 3 + k * 1.047; ctx.fillStyle = '#c9a66b'; ctx.beginPath(); ctx.arc(sx(P.x) + Math.cos(a) * R, sy(P.y) + Math.sin(a) * R * .6, 4, 0, 6.283); ctx.fill(); ctx.strokeStyle = 'rgba(0,0,0,.4)'; ctx.lineWidth = 1; ctx.stroke(); } }
+  for (const id in P.w) { const ow = weaponOf(id); if (!ow || !P.w[id]) continue; for (const pid of (ow.parts || [id])) { const w = WBY[pid]; if (w.type !== 'aura') continue; const key = ow.id === w.id ? w.id : ow.id + ':' + w.id; const R = rangeOf(w, ow), p = (WCD[key] || 0) / (w.cd * cdMul()), ec = EL_COL[w.el]; ctx.strokeStyle = ec; ctx.globalAlpha = .25 + (1 - p) * .35; ctx.lineWidth = 2; ctx.beginPath(); ctx.arc(sx(P.x), sy(P.y), R * (1 - p * .08), 0, 6.283); ctx.stroke(); ctx.globalAlpha = .06; ctx.fillStyle = ec; ctx.fill(); ctx.globalAlpha = 1;
+    if (pid === 'beads') for (let k = 0; k < 6; k++) { const a = t * 3 + k * 1.047; ctx.fillStyle = '#c9a66b'; ctx.beginPath(); ctx.arc(sx(P.x) + Math.cos(a) * R, sy(P.y) + Math.sin(a) * R * .6, 4, 0, 6.283); ctx.fill(); ctx.strokeStyle = 'rgba(0,0,0,.4)'; ctx.lineWidth = 1; ctx.stroke(); } } }
   // 적 (y 정렬)
   const es = E.slice().sort((a, b) => a.y - b.y);
   for (const o of es) { const x = sx(o.x), y = sy(o.y); if (x < -60 || x > W + 60 || y < -60 || y > H + 60) continue;
@@ -686,7 +732,7 @@ function startGame() {
   S.mode = 'play'; S.t = 0; S.lvl = 1; S.xp = 0; S.need = C.LVL_XP0; S.kills = 0; S.coins = 0; S.spawnAcc = 0; S.bossDone = [false, false]; S.cleared = S.dead = false; S.hitT = S.freeze = S.shake = S.flash = S.burnT = S.slowT = 0; S.eliteIdx = 0; S.shardsRun = 0; EB.length = 0; ZONE.length = 0; CHESTS.length = 0; OB.clear();
   S.stage = S.chal ? 0 : Math.min(nStages() - 1, Math.max(0, (META.stage || 1) - 1), META.bestStage); S.pw = S.chal ? 1 : metaPower(); S.deck = S.chal ? CHAL_DECK.slice() : META.deck.filter(id => WBY[id]); if (!S.deck.length) S.deck = ['talisman']; S.shardsRun = 0;
   E.length = 0; B.length = 0; G.length = 0; FX.length = 0; FL.length = 0; SLASH.length = 0; for (const k in WCD) WCD[k] = 0;
-  P.x = P.y = 0; P.dx = 0; P.dy = 1; P.w = { [S.deck[0]]:1 }; P.p = {}; cam.x = cam.y = 0; S.maxhp = C.HP_PLAYER * mHp(); S.hp = S.maxhp; applyPassives(); rndState = S.chal ? S.chal.seed : 1;
+  P.x = P.y = 0; P.dx = 0; P.dy = 1; P.w = { [S.deck[0]]:1 }; P.p = {}; P.used = new Set(); cam.x = cam.y = 0; S.maxhp = C.HP_PLAYER * mHp(); S.hp = S.maxhp; applyPassives(); rndState = S.chal ? S.chal.seed : 1;
   JOY.on = false;
 }
 function endRun(cleared) {
@@ -740,7 +786,12 @@ function renderShrine() {
     const g = document.createElement('div'); g.className = 'grid'; for (const w of WEAPONS) { if (META.owned[w.id] == null) continue; const inDeck = META.deck.includes(w.id), el = document.createElement('button'); el.className = 'w' + (inDeck ? ' in' : ''); el.innerHTML = `<canvas width="56" height="56"></canvas>${w.name}<small class="el-${w.el}">${EL_NAME[w.el]}·${TYPE_NAME[w.type]}${inDeck ? ' · ' + (META.deck.indexOf(w.id) + 1) + '번' : ''}</small>`; drawIcon(el.querySelector('canvas'), { d:w }, 1.3);
       el.addEventListener('click', () => { if (inDeck) { if (META.deck.length > 1) META.deck = META.deck.filter(x => x !== w.id); else toast('무기는 하나 이상 넣어야 해요'); } else if (META.deck.length < 10) META.deck.push(w.id); else toast('덱은 10개까지'); saveMeta(); renderShrine(); }); g.appendChild(el); } b.appendChild(g);
     const h = document.createElement('p'); h.className = 'msg'; h.innerHTML = '상성: <span class="el-water">수</span>→<span class="el-fire">화</span>→<span class="el-metal">금</span>→<span class="el-wood">목</span>→<span class="el-water">수</span> (유리 ×1.5 / 불리 ×0.6) · 투척은 가벼운 요괴, 근접은 무거운 요괴, 오라는 보통 요괴에 강함'; b.appendChild(h); }
-  else { for (const st of STAGES_LIVE) { const h = document.createElement('p'); h.className = 'msg'; h.innerHTML = `<b style="color:#e8c15a">${st.name}</b> · ${st.els.map(e => `<span class="el-${e}">${EL_NAME[e]}</span>`).join(' ')}`; b.appendChild(h);
+  else { const wh = document.createElement('p'); wh.className = 'msg'; wh.innerHTML = `<b style="color:#e8c15a">무기</b> · 기본 12 · 진화 ${META.evo.length}/${EVOS.length} 발견 — Lv5 둘을 합치면 진화`; b.appendChild(wh);
+    const wg = document.createElement('div'); wg.className = 'grid'; wg.style.marginBottom = '8px';
+    for (const w of [...WEAPONS, ...EVOS]) { const seen = w.parts ? META.evo.includes(w.id) : META.owned[w.id] != null, el = document.createElement('div'); el.className = 'w' + (seen ? '' : ' off'); el.title = w.parts ? w.parts.map(p => WBY[p].name).join('+') : '';
+      el.innerHTML = `<canvas width="56" height="56"></canvas>${seen ? w.name : '???'}<small>${w.parts ? (seen ? w.parts.map(p => WBY[p].name).join('+') : w.tier + '단 · ' + (w.els.length === 1 ? `<span class="el-${w.els[0]}">${EL_NAME[w.els[0]]}</span>` : TYPE_NAME[w.types[0]]) + ' 계열') : `<span class="el-${w.el}">${EL_NAME[w.el]}·${TYPE_NAME[w.type]}</span>`}</small>`;
+      drawIcon(el.querySelector('canvas'), { d:w }, 1.3); if (!seen) el.querySelector('canvas').style.opacity = .3; wg.appendChild(el); } b.appendChild(wg);
+    for (const st of STAGES_LIVE) { const h = document.createElement('p'); h.className = 'msg'; h.innerHTML = `<b style="color:#e8c15a">${st.name}</b> · ${st.els.map(e => `<span class="el-${e}">${EL_NAME[e]}</span>`).join(' ')}`; b.appendChild(h);
       const g = document.createElement('div'); g.className = 'grid'; g.style.gridTemplateColumns = 'repeat(4,1fr)'; g.style.marginBottom = '8px';
       for (const id of [...st.roster, ...st.bosses]) { const e = ENEMY[id], seen = META.codex.includes(id), el = document.createElement('div'); el.className = 'w' + (seen ? '' : ' off'); el.innerHTML = `<canvas width="56" height="56"></canvas>` + (seen ? `${e.name}<small>${e.boss ? `<span class="el-${e.el}">${EL_NAME[e.el]}</span> 보스` : e.armor === 'heavy' ? '무거움' : e.armor === 'light' ? '가벼움' : '보통'}</small>` : '???<small>미발견</small>'); g.appendChild(el);
         const cx = el.querySelector('canvas').getContext('2d'); const sp = sprite(e.spr, 0, false); cx.imageSmoothingEnabled = false; const k = Math.min(48 / sp.width, 48 / sp.height); if (!seen) cx.globalAlpha = .25; cx.drawImage(sp, 28 - sp.width * k / 2, 28 - sp.height * k / 2, sp.width * k, sp.height * k); }
@@ -772,7 +823,7 @@ let last = 0, frameMs = [];
 function frame(ts) { let dt = (ts - last) / 1000 || 0; last = ts; if (dt > .1) dt = .1; const t0 = performance.now();
   if (S.mode === 'play') tick(dt); fx(dt); draw(); if (TEST) { frameMs.push(performance.now() - t0); if (frameMs.length > 600) frameMs.shift(); } requestAnimationFrame(frame); }
 requestAnimationFrame(frame);
-if (TEST) window.GAME = { S, P, E, B, G, EB, ZONE, CHESTS, META, WBY, ENEMY, GRIDS, affinity, gacha, openShrine, renderShrine, openChal, CHAL_DECK, TRAIN, trainCost, hitWith, migrate, isoWeek, hashStr, openChest, bossPattern, nearObst, ELITE_AT, C, STAGES, WEAPONS, PASSIVES, tick, startGame, endRun, spawn, kill, levelUp, pick, choices, inputVec, KEY, JOY, frameMs: () => frameMs, enemyHp, hurtEnemy };
+if (TEST) window.GAME = { S, P, E, B, G, EB, ZONE, CHESTS, META, WBY, ENEMY, GRIDS, EVOS, EBY, evoOptions, weaponOf, dmgOf, affinity, gacha, openShrine, renderShrine, openChal, CHAL_DECK, TRAIN, trainCost, hitWith, migrate, isoWeek, hashStr, openChest, bossPattern, nearObst, ELITE_AT, C, STAGES, WEAPONS, PASSIVES, tick, startGame, endRun, spawn, kill, levelUp, pick, choices, inputVec, KEY, JOY, frameMs: () => frameMs, enemyHp, hurtEnemy };
 </script>
 </body>
 </html>
